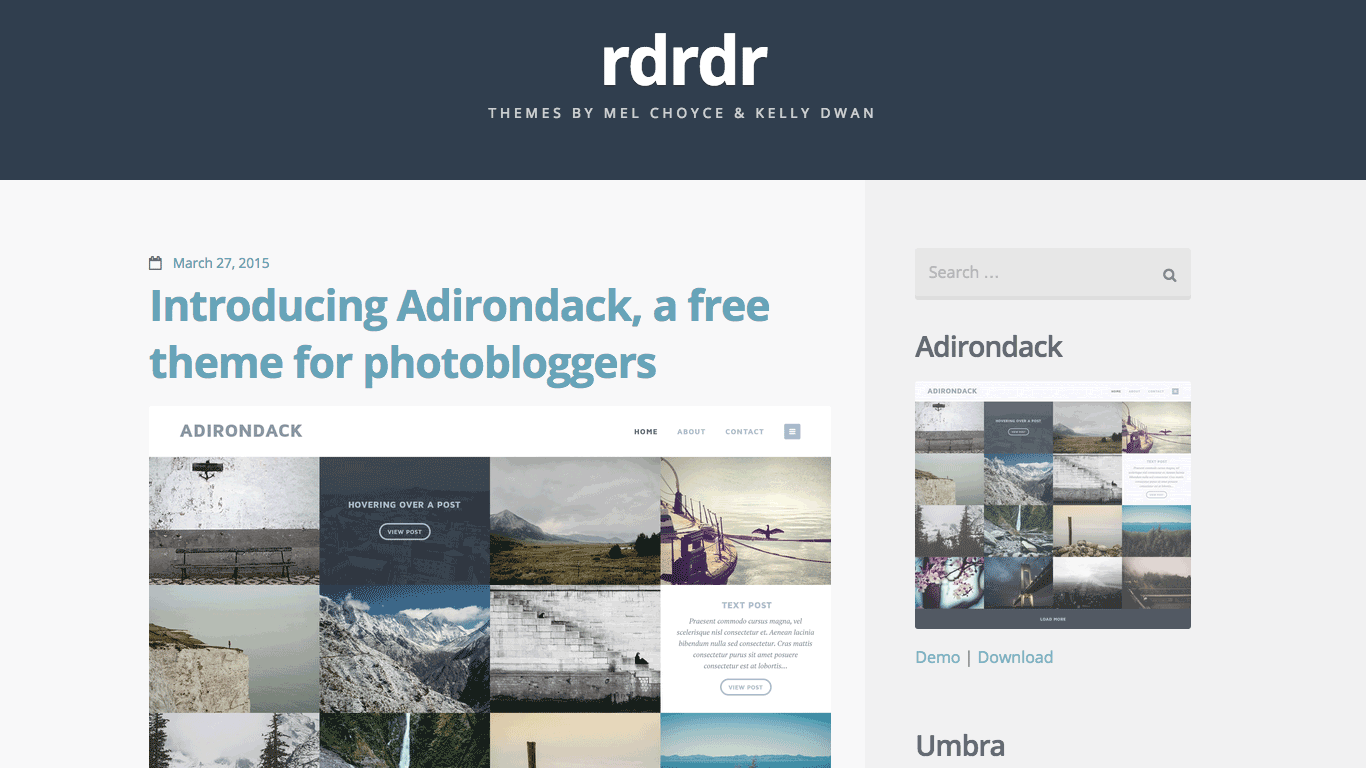
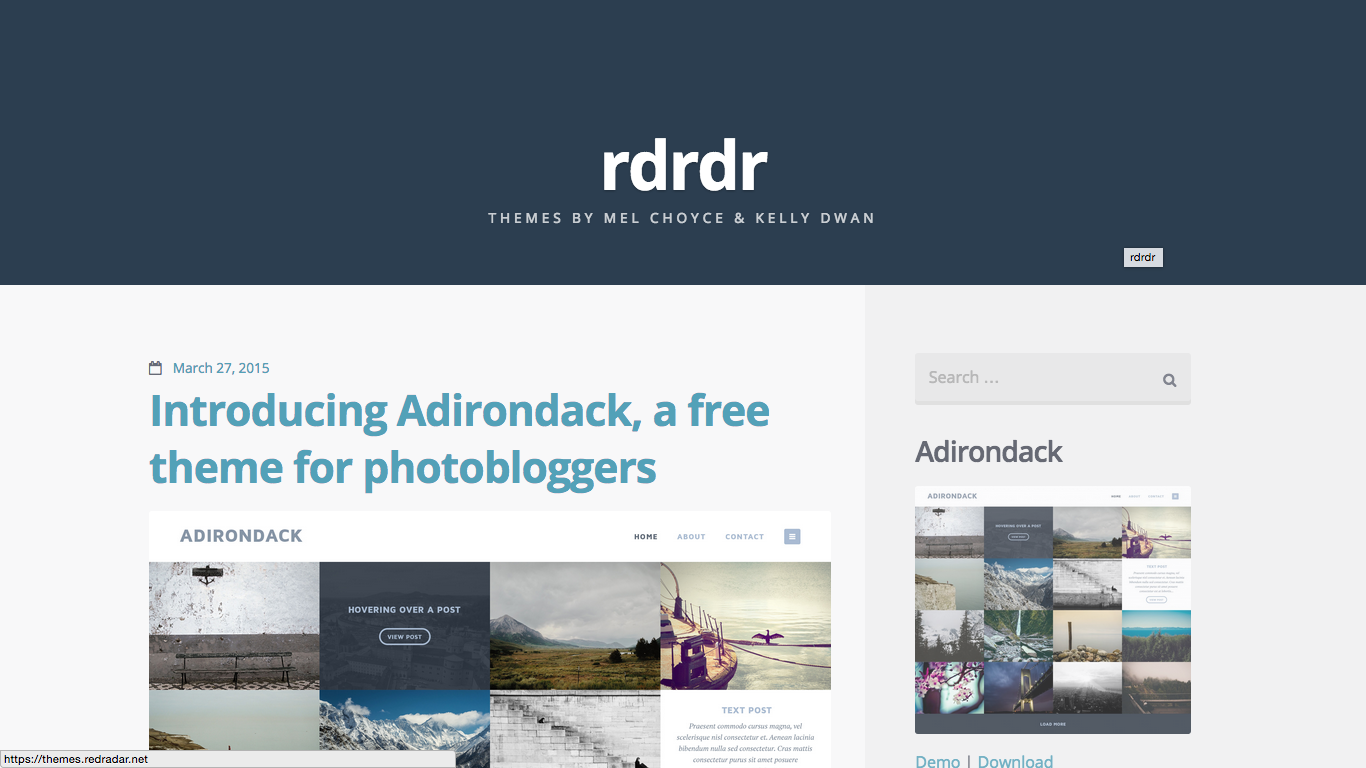
Optimize images and tune existing slides

diff --git a/2015/sideprojects-empirejs/sideprojects-empirejs.md b/2015/sideprojects-empirejs/sideprojects-empirejs.md
@@ -70,12 +70,33 @@ Slides: [talks.kadamwhite.com/side-projects-empirejs](talks.kadamwhite.com/side-
 
 <small>*~ Matt Mullenweg, [The Blogging Software Dilemma](http://ma.tt/2003/01/the-blogging-software-dilemma/), 2003 (emphasis added)*</small>
 
-??? You can plan for that, but you can't make it happen -- and it's rarely where the idea starts. Most things start small.
+??? You can plan for that, but it's rarely where the idea starts. Most things start small.
+---
+
+# Side Projects are *fun!*
+
+??? So why do we *really* work on SPs? There's a reason we call them "passion projects": we take time to work on side projects because we enjoy them. I've heard it called "scratching an itch," I've heard it described as "blowing off steam": we take on work we find interesting, that differs in some way from what we do normally.
+
+---
+<!-- .slide: data-background="url('images/projects/melchoyce-redradar.png')" -->
+
+<span>Mel Choyce, [rdrdr WordPress Themes](http://https://themes.redradar.net)</span> <!-- .element: class="caption" -->
+
+??? Mel Choyce, a UX designer at Automattic, makes WP themes with Kelly Dwan in her spare time and releases them as RedRadar.
+
+---
+<!-- .slide: data-background="url('images/projects/melchoyce-umbra-preview-post.png')" -->
+
+> I get to work on what I want to work on, with no external restrictions or limitations. It's a time to let my creativity run wild and do what I want to do.
+<small>*~ [Mel Choyce](https://twitter.com/melchoyce)*</small>
+
+??? and sees it as an opportunity to exercise creativity without constraint. This is something I heard a lot when soliciting opinions for this talk.
+
 ---
 
 ## `+= 'new skills'`
 
-??? So why do we *really* work on SPs? The most common reason is naturally to learn new skills. I head this described as "me +=" in one blog...
+??? I think enjoyment is the most important reason, but a lot of us naturally start SPs to learn new skills. I head this described as "me += skill" in one blog...
 
 ---
 <!-- .slide: data-background="url('images/projects/jennschiffer-make8bitart.png')" -->
@@ -227,7 +248,7 @@ and decide which ones to keep for next time
 
 ---
 
-# Bring Your Project to Work Day
+# Bring Your Projects to Work Day
 
 ??? For reasons we'll get to later, I think making time for side projects is a critical part of our professional growth&mdash;and part of that growth can happen *within* our jobs, not alongside it
 
